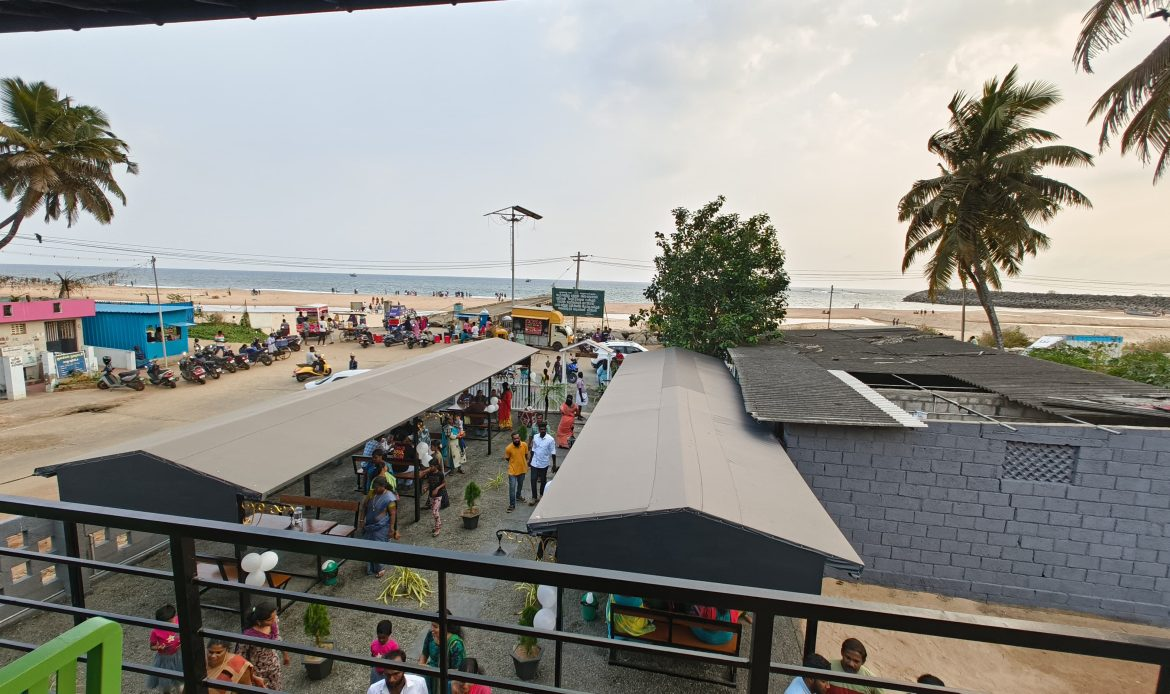
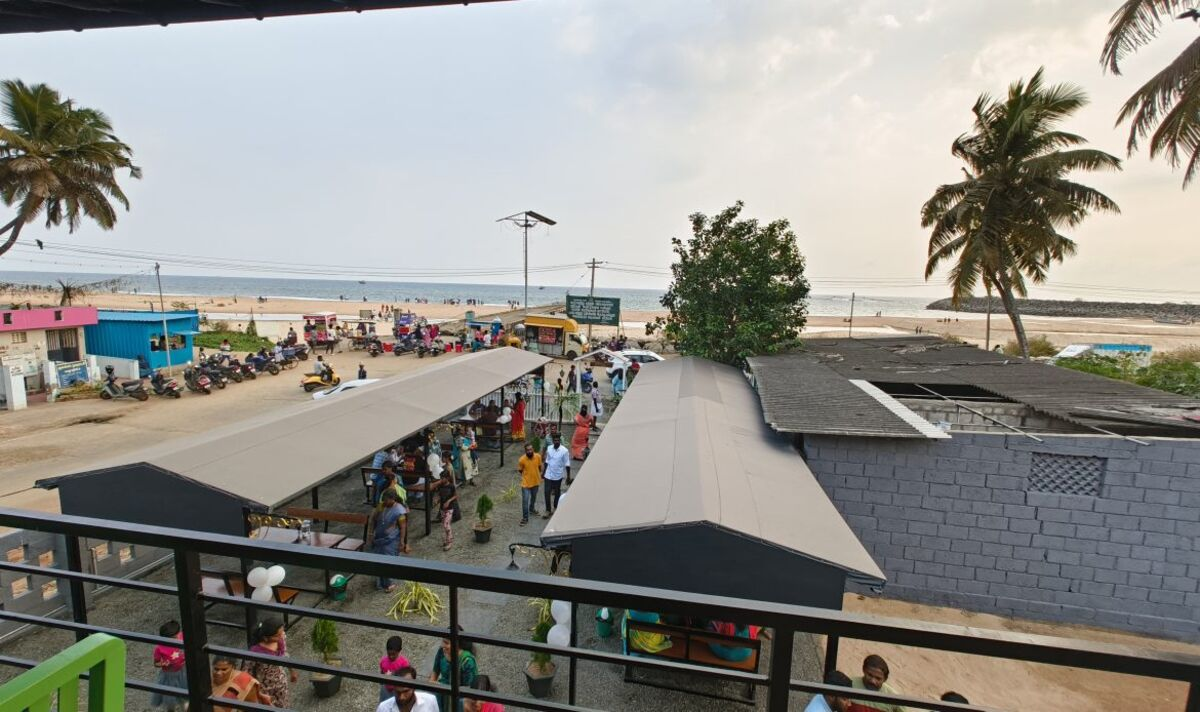
Remove log messages and reduce image sizes

diff --git a/src/app/module/user-view/nav/sub-nav/sub-nav.component.html b/src/app/module/user-view/nav/sub-nav/sub-nav.component.html
@@ -9,7 +9,7 @@
     <div class="flex justify-between items-center h-20">
 
       <div class="flex-shrink-0">
-        <img src="colachel-cafe-final-with-slogan.png" alt="Colachel Cafe Logo" class="h-20 w-auto">
+        <img src="colachel-cafe-final-with-slogan.webp" alt="Colachel Cafe Logo" class="h-20 w-auto">
       </div>
 
       <div class="hidden md:flex space-x-6 items-center">

diff --git a/src/app/shared/shared-data.service.ts b/src/app/shared/shared-data.service.ts
@@ -16,7 +16,6 @@ export class SharedDataService {
   constructor(private apiService: ApiService) {}
 
   loadInitialData(): void {
-    console.log('Calling loadInitialData...');
     forkJoin([
       this.apiService.get<any>('https://coastalcafe.duckdns.org/api/foods/?all=true'),
       this.apiService.get<any>('https://coastalcafe.duckdns.org/api/food-categories/?all=true'),

diff --git a/src/app/module/user-view/home-page/our-testimonials/our-testimonials.component.ts b/src/app/module/user-view/home-page/our-testimonials/our-testimonials.component.ts
@@ -27,7 +27,6 @@ export class OurTestimonialsComponent implements OnInit, OnDestroy {
   ngOnInit() {
     this.reviewSubscription = this.sharedDataService.googleReviews$.subscribe(reviews => {
       this.testimonials = reviews;
-      console.log('google',reviews )
       this.updateVisible();
     });
 

diff --git a/src/app/module/user-view/nav/main-nav/main-nav.component.html b/src/app/module/user-view/nav/main-nav/main-nav.component.html
@@ -17,7 +17,7 @@ class="top-4 right-4 absolute
        md:translate-x-0 
        translate-x-0"
 >
-<img src="cafe-logo-hd.png" class="w-12 h-12 md:w-20 md:h-20" />
+<img src="cafe-logo.webp" class="w-12 h-12 md:w-20 md:h-20" />
 </div>
 
 

diff --git a/src/app/module/user-view/menu-page/menu-page.component.ts b/src/app/module/user-view/menu-page/menu-page.component.ts
@@ -38,7 +38,6 @@ export class MenuPageComponent implements OnInit {
   
     this.sharedDataService.categoryData$.subscribe(data => {
       this.categories = data;
-      console.log('categories', this.categories);
     });
   }
 
